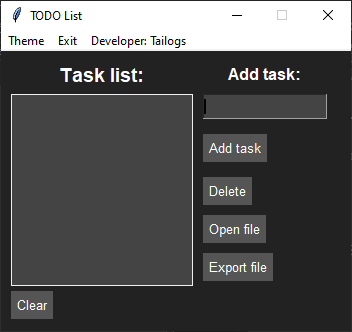
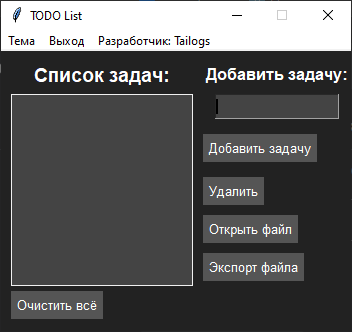
перевел на русский снова

diff --git a/README.md b/README.md
@@ -1,9 +1,9 @@
 # TodoLis
 
-TodoList - is my task scheduler
+TodoList — мой планировщик задач
 
 ---
 
-![Screenshot program](image.png)
+![Скриншот программы](image.png)
 
-*Figure 1. Screenshot of the program*
+*Рисунок 1. Скриншот программы*
